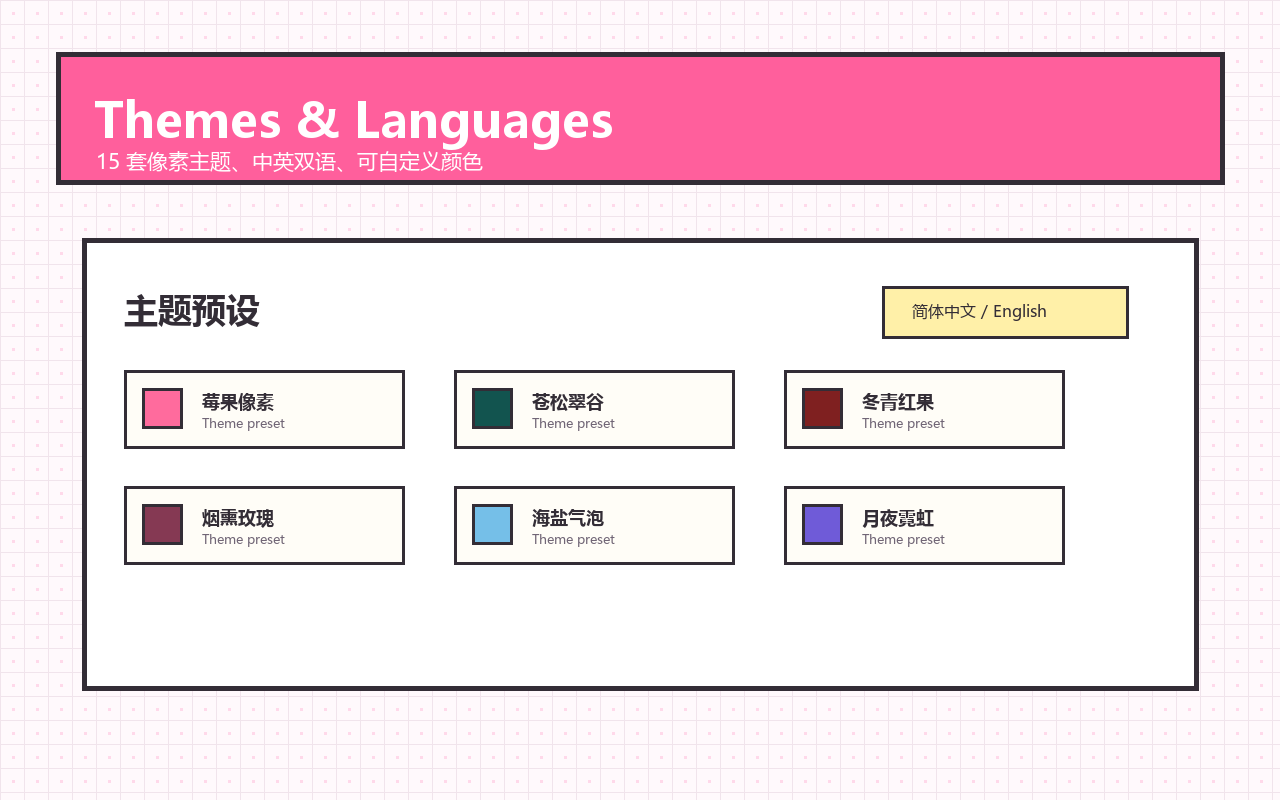
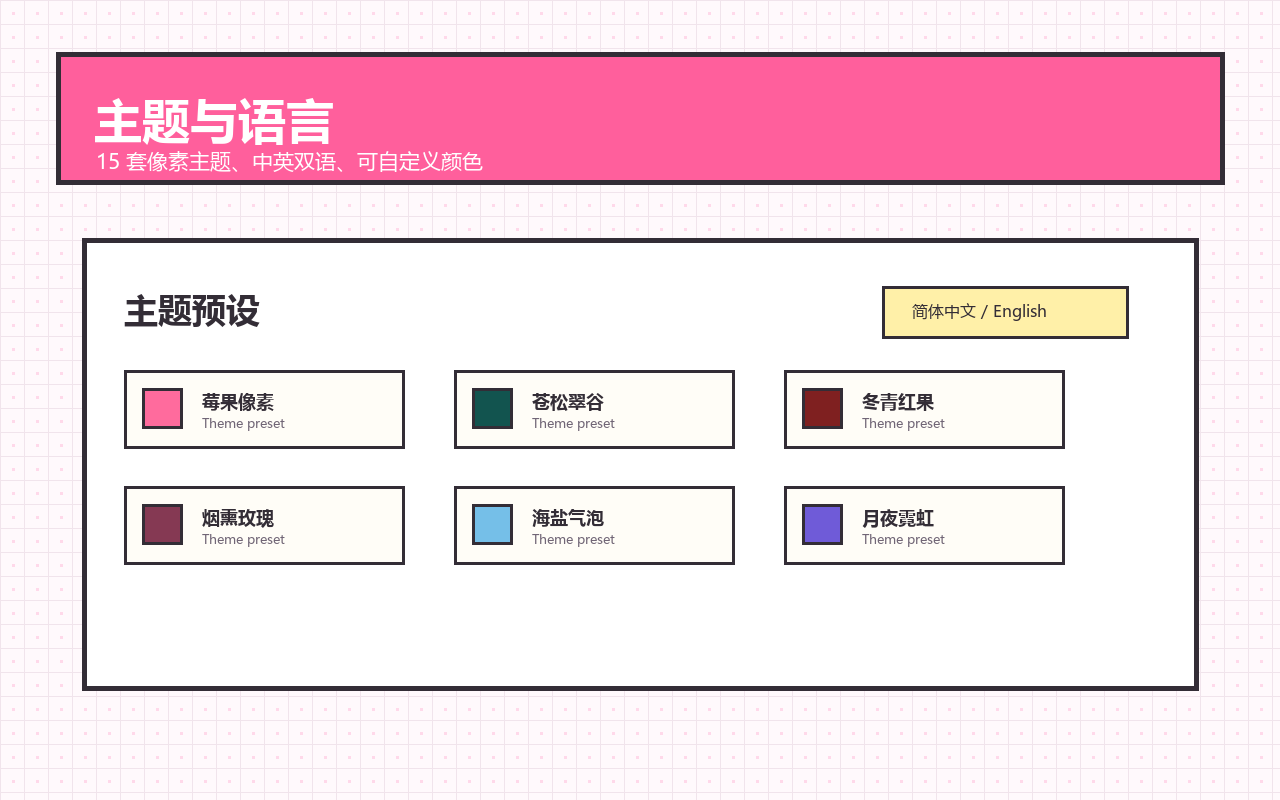
中文截图 hero 大标题改为中文（色卡与历史/为开发者导出/主题与语言）
- s1/s2/s3/s5 标题抽为 TEXTS 字段（s1_hero 等），zh/en 各自取值
- 第 1 张保留产品名 Pixel Color Picker；英文版不变

Changed region(s): [[0.0625, 0.125, 0.5, 0.1875]]

diff --git a/scripts/generate-store-screenshots.py b/scripts/generate-store-screenshots.py
@@ -24,6 +24,10 @@ COLORS = {
 
 TEXTS = {
     "zh": {
+        "s1_hero": "Pixel Color Picker",
+        "s2_hero": "色卡与历史",
+        "s3_hero": "为开发者导出",
+        "s5_hero": "主题与语言",
         "s1_sub": "像素风网页取色、色卡管理和导出工具",
         "s1_head": "一键吸取网页颜色",
         "s1_desc": "从网页中快速获取颜色，自动保存到色卡和历史记录。适合设计师、前端开发和内容创作者整理灵感配色。",
@@ -62,6 +66,10 @@ TEXTS = {
         "s5_lang": "简体中文 / English",
     },
     "en": {
+        "s1_hero": "Pixel Color Picker",
+        "s2_hero": "Palettes & History",
+        "s3_hero": "Export For Developers",
+        "s5_hero": "Themes & Languages",
         "s1_sub": "Pixel-style color picking, palettes & export",
         "s1_head": "Pick colors from any page",
         "s1_desc": "Grab colors from any webpage and save them to palettes and history automatically. Great for designers, front-end developers and content creators.",
@@ -239,7 +247,7 @@ def export_card(draw, x, y, label, detail, color):
 
 def screenshot_1(t, outdir):
     img, draw = base()
-    hero(draw, "Pixel Color Picker", t["s1_sub"])
+    hero(draw, t["s1_hero"], t["s1_sub"])
     popup_mock(draw, 82, 230, t)
     text(draw, (520, 268), t["s1_head"], f=F["h2"])
     paragraph(draw, (522, 322), t["s1_desc"], 610, f=F["body"])
@@ -255,7 +263,7 @@ def screenshot_1(t, outdir):
 
 def screenshot_2(t, outdir):
     img, draw = base()
-    hero(draw, "Palettes & History", t["s2_sub"])
+    hero(draw, t["s2_hero"], t["s2_sub"])
     palette_board(draw, 74, 234, 710, 486, t)
     rect(draw, (836, 234, 1190, 720), COLORS["white"], width=5)
     text(draw, (868, 270), t["s2_history"], f=F["h3"])
@@ -272,7 +280,7 @@ def screenshot_2(t, outdir):
 
 def screenshot_3(t, outdir):
     img, draw = base()
-    hero(draw, "Export For Developers", t["s3_sub"])
+    hero(draw, t["s3_hero"], t["s3_sub"])
     text(draw, (82, 242), t["s3_head"], f=F["h2"])
     paragraph(draw, (84, 300), t["s3_desc"], 560, f=F["body"])
     for i, (label, detail, color) in enumerate([
@@ -311,7 +319,7 @@ def screenshot_4(t, outdir):
 
 def screenshot_5(t, outdir):
     img, draw = base()
-    hero(draw, "Themes & Languages", t["s5_sub"])
+    hero(draw, t["s5_hero"], t["s5_sub"])
     rect(draw, (82, 238, 1198, 690), COLORS["white"], width=5)
     text(draw, (124, 286), t["s5_head"], f=F["h2"])
     names = t["s5_names"]
